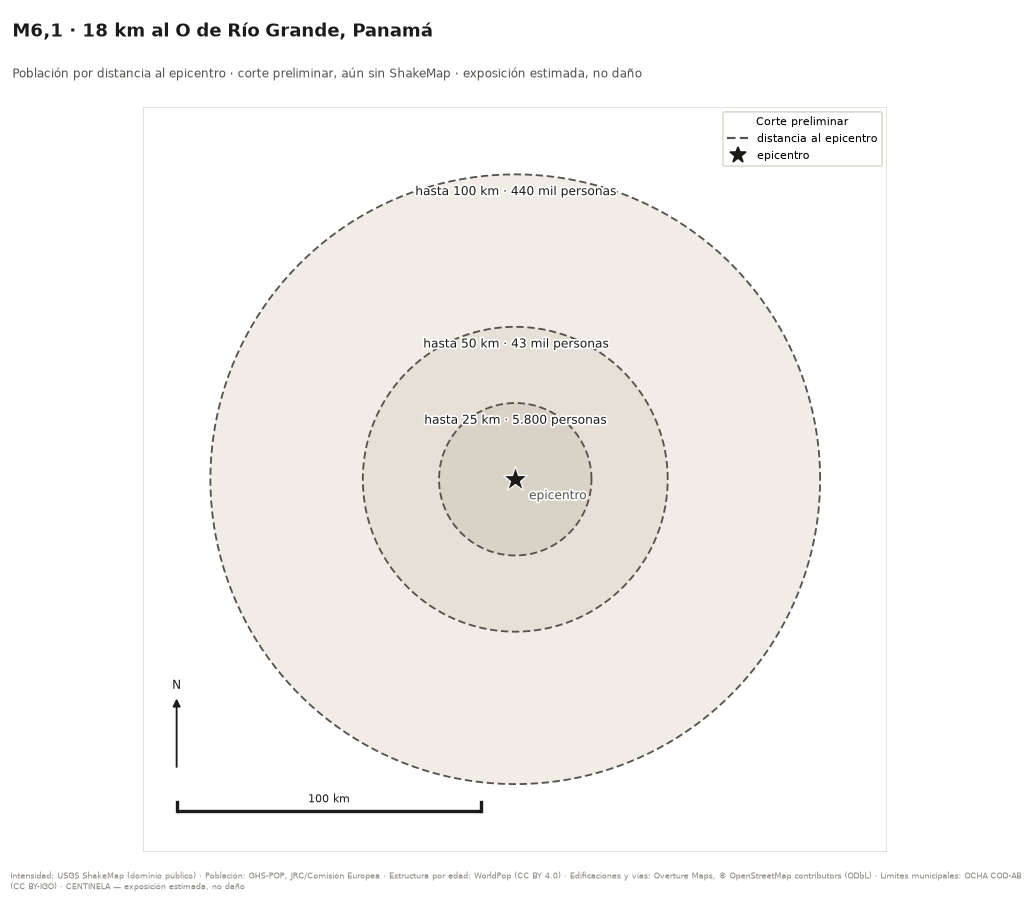
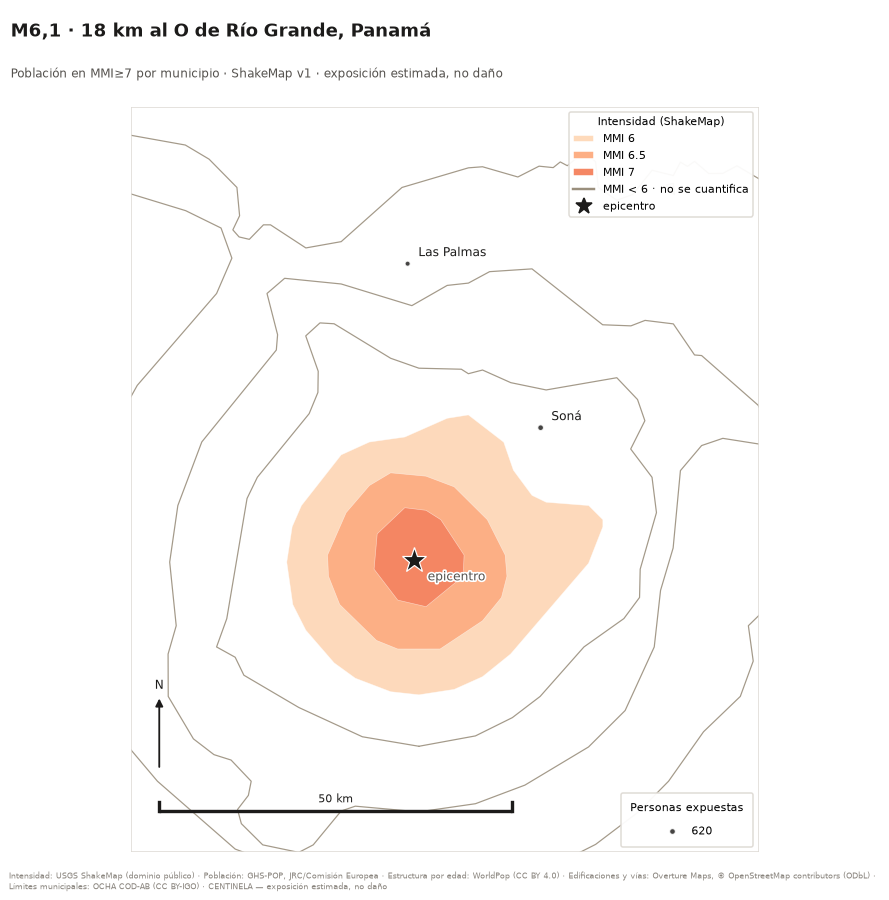
P3: reporte de us6000u1wn

diff --git a/reports/us6000u1wn/report.md b/reports/us6000u1wn/report.md
@@ -2,32 +2,71 @@
 
 **Evento USGS:** `us6000u1wn` · **Origen:** 2026-10-12T23:20:36Z UTC · **Profundidad:** 10,0 km
 
-> **Reporte preliminar sin ShakeMap.** El corte es por radios alrededor del epicentro, no por intensidad modelada. Se actualiza automáticamente en cuanto USGS publique el ShakeMap del evento.
+## Exposición estimada
 
-## Población por distancia al epicentro
-
-| Radio desde el epicentro | Población |
+| Indicador | Estimado |
 |---|---:|
-| 25 km | 5.800 |
-| 50 km | 43 mil |
-| 100 km | 440 mil |
+| Población en MMI≥6 | 4.700 |
+| Población en MMI≥7 | 620 |
+| Población en MMI≥8 | el evento no llegó a esta banda |
+| Edificaciones en MMI≥7 | 200 |
+| Sedes de salud en MMI≥7 | 0 |
+| Sedes educativas en MMI≥7 | 0 |
+| Kilómetros de vía en MMI≥7 | 0 km |
+| Superficie construida en MMI≥7 | 0,0 km² |
 
-Los radios **no son bandas de intensidad**. Aquí no hay modelo de sacudida, solo distancia: un sismo superficial y uno profundo de la misma magnitud tienen el mismo circulo y no se parecen en nada. La cifra sirve para dimensionar, no para priorizar.
+Las cifras de esta tabla van redondeadas a dos cifras significativas, que es la precisión que un modelo de exposición sostiene. Las exactas están en el CSV municipal y en `report.json`.
+
+De la población en intensidad MMI≥7, alrededor de **57** personas tienen 65 años o más.
+
+## Municipios más expuestos, por población en MMI≥7
+
+| # | Municipio | Código | MMI max | Población MMI≥7 |
+|---:|---|---|---:|---:|
+| 1 | Soná | `PA1312` | 7,0 | 620 |
 
 ## Deslizamiento y licuefacción
 
-USGS no ha publicado el producto *Ground Failure* para este evento. La sección se omite; el reporte se re-emite automáticamente si aparece.
+- **Deslizamiento.** Población en celdas de MMI≥6 donde el modelo espera ≥ 0,10 de probabilidad de deslizamiento según `jessee_2018_model.tif`: **0**.
+- **Licuefacción.** Población en celdas de MMI≥6 donde el modelo espera ≥ 0,10 de cobertura areal por licuefacción según `zhu_2017_general_model.tif`: **800**. USGS declara para este evento alerta **amarilla**, con 1.100 expuestas.
+
+Las dos cifras se cuentan sobre las celdas del corte publicado (MMI≥6). **No son las de USGS y no se pueden comparar de frente**: aquí se cuenta la población entera de toda celda por encima del umbral, y USGS pondera la población de cada celda por el valor de esa celda. Son dos preguntas distintas sobre el mismo ráster.
+
+**Y el umbral se evalúa en un solo punto por celda: su centroide.** El píxel del ráster es más pequeño que la celda, así que ese punto decide si entra la población entera de la celda o no entra ninguna. No es una estadística areal, y el sesgo que introduce no está medido: puede quedarse corto o pasarse.
+
+Fuente: producto *Ground Failure* de USGS (v1), dominio público.
+
+## Referencia cruzada
+
+PAGER (USGS) estima para este evento una alerta **verde**. CENTINELA no estima víctimas; la cifra se incluye solo como contraste.
+
+Las dos cifras **no se tabulan igual** y no se pueden leer una contra otra: PAGER agrupa por MMI redondeado (su fila «7» es todo lo que cae entre 6,5 y 7,49) y CENTINELA usa bandas literales, donde MMI≥7 es MMI≥7. Puede además que no hablen del mismo ShakeMap: este reporte declara en «Procedencia» qué versión consumió, y PAGER pudo correr sobre otra versión o sobre otro producto del mismo sismo. El contraste banda a banda, hecho y comprobado para el sismo de San José del Palmar, está en `docs/PARA_INSTITUCIONES.md`.
 
 ## Incertidumbre y calidad
 
-Discrepancia entre GHS-POP y WorldPop: **no se calcula en un reporte preliminar**. El contraste se hace celda a celda dentro de las bandas de intensidad, y sin ShakeMap todavía no hay bandas que cortar. Aparecerá en cuanto el reporte se re-emita con el ShakeMap.
+Discrepancia entre GHS-POP y WorldPop en las bandas MMI publicadas: **17,3 %**.
+
+## Cambios frente a la versión anterior
+
+- ShakeMap: v0 → v1 (us)
+- Ground Failure: v0 → v1 (us)
+- Población en MMI≥6: 0 → 4.700
+- Población en MMI≥7: 0 → 620
+- Población de 65 años o más en MMI≥7: 0 → 57
+- Edificaciones en MMI≥7: 0 → 200
+- Población en cobertura areal alta por licuefacción: 0 → 800
+
+## Descargas
+
+- [CSV por municipio](adm2.csv)
+- [Mapa PNG](mapa_general.png)
 
 ## Procedencia
 
-- ShakeMap consumido: **ninguno** (no publicado aún)
-- Ground Failure consumido: **ninguno** (no publicado aún)
+- ShakeMap consumido: **v1** de `us`
+- Ground Failure consumido: **v1** de `us`
 - Manifiesto de exposición: [`pan-v0.4`](https://github.com/sforero77/CENTINELA/blob/main/data/manifests/PAN.yaml)
-- Pipeline: `0.1.0` · Generado: 2026-10-12T23:35:59Z
+- Pipeline: `0.1.0` · Generado: 2026-10-12T23:40:49Z
 
 ## Advertencias
 
